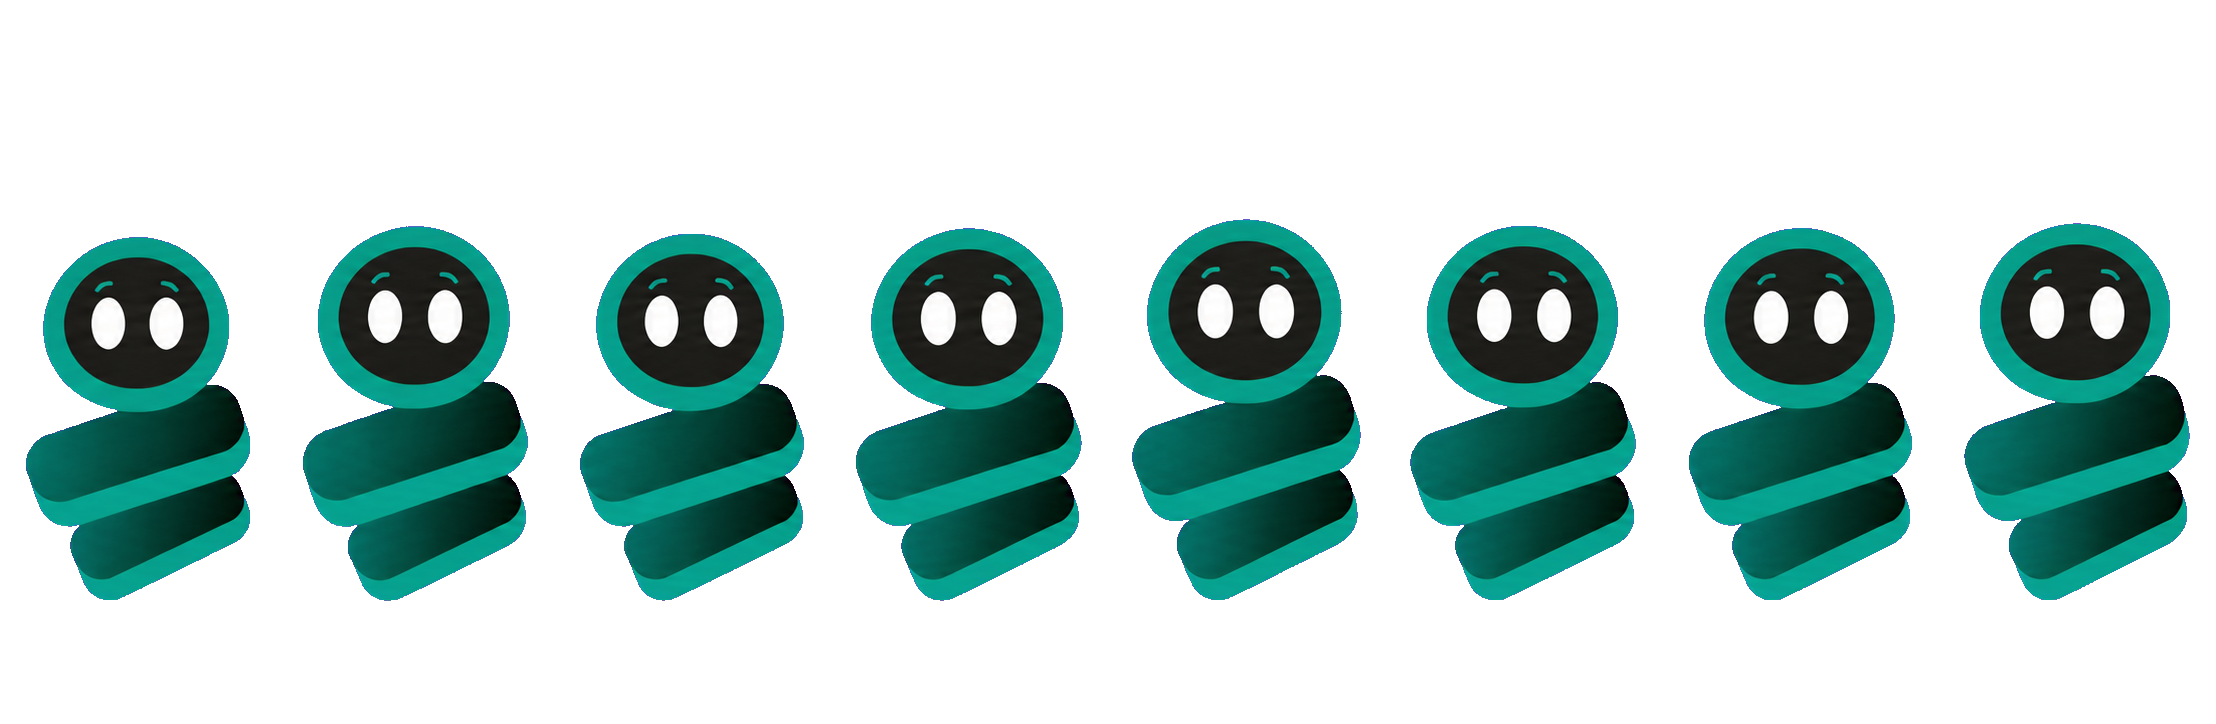
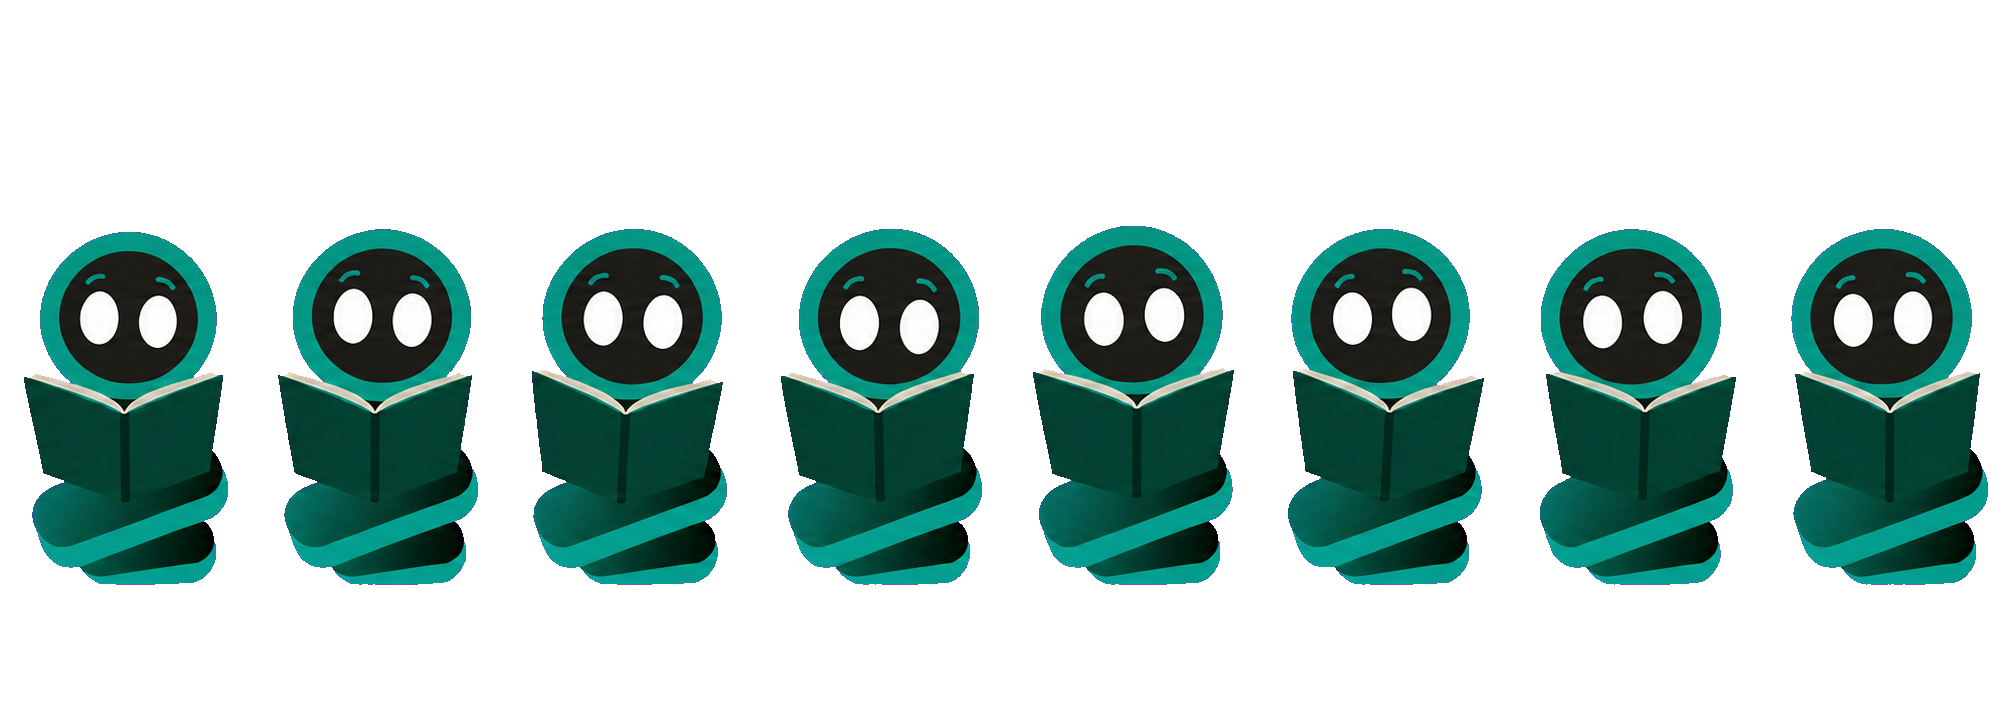
feat: integrate HeadAgentPet component and enhance working animation for AgentPet

Changed region(s): [[0.0, 0.3039, 1.0, 0.8508]]

diff --git a/apps/web/src/features/agent-pet/AgentPetDemo.tsx b/apps/web/src/features/agent-pet/AgentPetDemo.tsx
@@ -7,6 +7,7 @@ import {
   AgentPet,
   type AgentPetState,
 } from "@/features/agent-pet/pack/dist/AgentPet";
+import { AgentPet as HeadAgentPet } from "@/features/head-agent-pet/pack/dist/AgentPet";
 
 const states = ["idle", "working", "success", "error"] as const;
 
@@ -42,14 +43,27 @@ export function AgentPetDemo({ labels }: Props) {
         <p className="mt-2 text-sm text-muted-foreground">{labels.description}</p>
       </div>
 
-      <div className="grid h-80 w-80 place-items-center rounded-3xl border bg-card text-[#00ad93] shadow-sm">
-        <AgentPet
-          label={`${labels.title}: ${labels.states[state]}`}
-          size={256}
-          state={state}
-          variant="auto"
-          variantIntervalMs={6000}
-        />
+      <div className="grid w-full gap-4 sm:grid-cols-2">
+        <div className="grid h-80 place-items-center rounded-3xl border bg-card text-[#00ad93] shadow-sm">
+          <AgentPet
+            label={`${labels.title}: ${labels.states[state]}`}
+            size={256}
+            state={state}
+            variant="auto"
+            variantIntervalMs={6000}
+          />
+        </div>
+
+        <div className="grid h-80 place-items-center rounded-3xl border bg-card text-[#00ad93] shadow-sm">
+          <HeadAgentPet
+            basePath="/head-pet"
+            label={`${labels.title}: ${labels.states[state]}`}
+            size={256}
+            state={state}
+            variant="auto"
+            variantIntervalMs={6000}
+          />
+        </div>
       </div>
 
       <p className="text-sm font-medium" aria-live="polite">